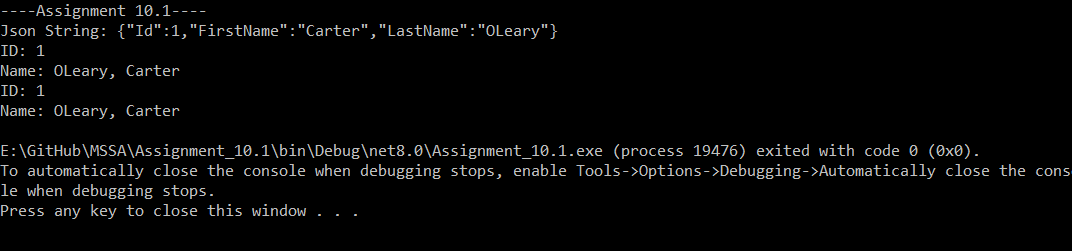
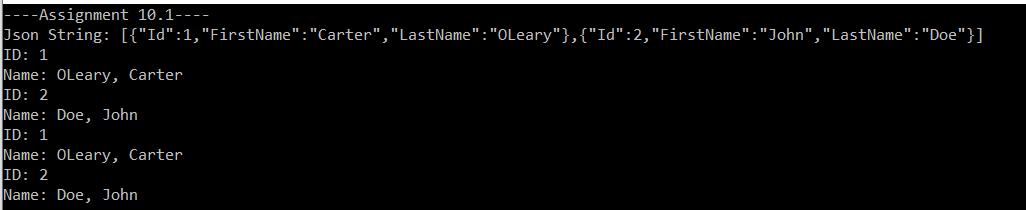
Updated to list instead of individual studs

Changed region(s): [[0.0, 0.0, 1.0, 0.4857], [0.0, 0.5143, 1.0, 0.9714]]

diff --git a/Assignment_10.1/Program.cs b/Assignment_10.1/Program.cs
@@ -4,17 +4,21 @@ using System.Xml.Serialization;
 
 Console.WriteLine("----Assignment 10.1----");
 
-Student? student = new Student(1, "Carter", "OLeary");
-string jsonSer = JsonSerializer.Serialize(student);
+var list = new List<Student>();
+
+list.Add(new Student(1, "Carter", "OLeary"));
+list.Add(new Student(2, "John", "Doe"));
+string jsonSer = JsonSerializer.Serialize(list);
 Console.WriteLine($"Json String: {jsonSer}");
-student = JsonSerializer.Deserialize<Student>(jsonSer);
-Console.WriteLine(student.ToString());
+list = JsonSerializer.Deserialize<List<Student>>(jsonSer);
+foreach(Student s  in list) Console.WriteLine(s);
+
 
 string file = @"C:\Users\Carter\Desktop\test\test.txt";
-var xmlSer = new XmlSerializer(typeof(Student));
+var xmlSer = new XmlSerializer(typeof(List<Student>));
 var writer = new StreamWriter(file);
-xmlSer.Serialize(writer, student);
+xmlSer.Serialize(writer, list);
 writer.Close();
 var reader = new StreamReader(file);
-var xmlData = xmlSer.Deserialize(reader) as Student;
-Console.WriteLine(xmlData);
+var xmlData = xmlSer.Deserialize(reader) as List<Student>;
+foreach (Student s in xmlData) Console.WriteLine(s);
